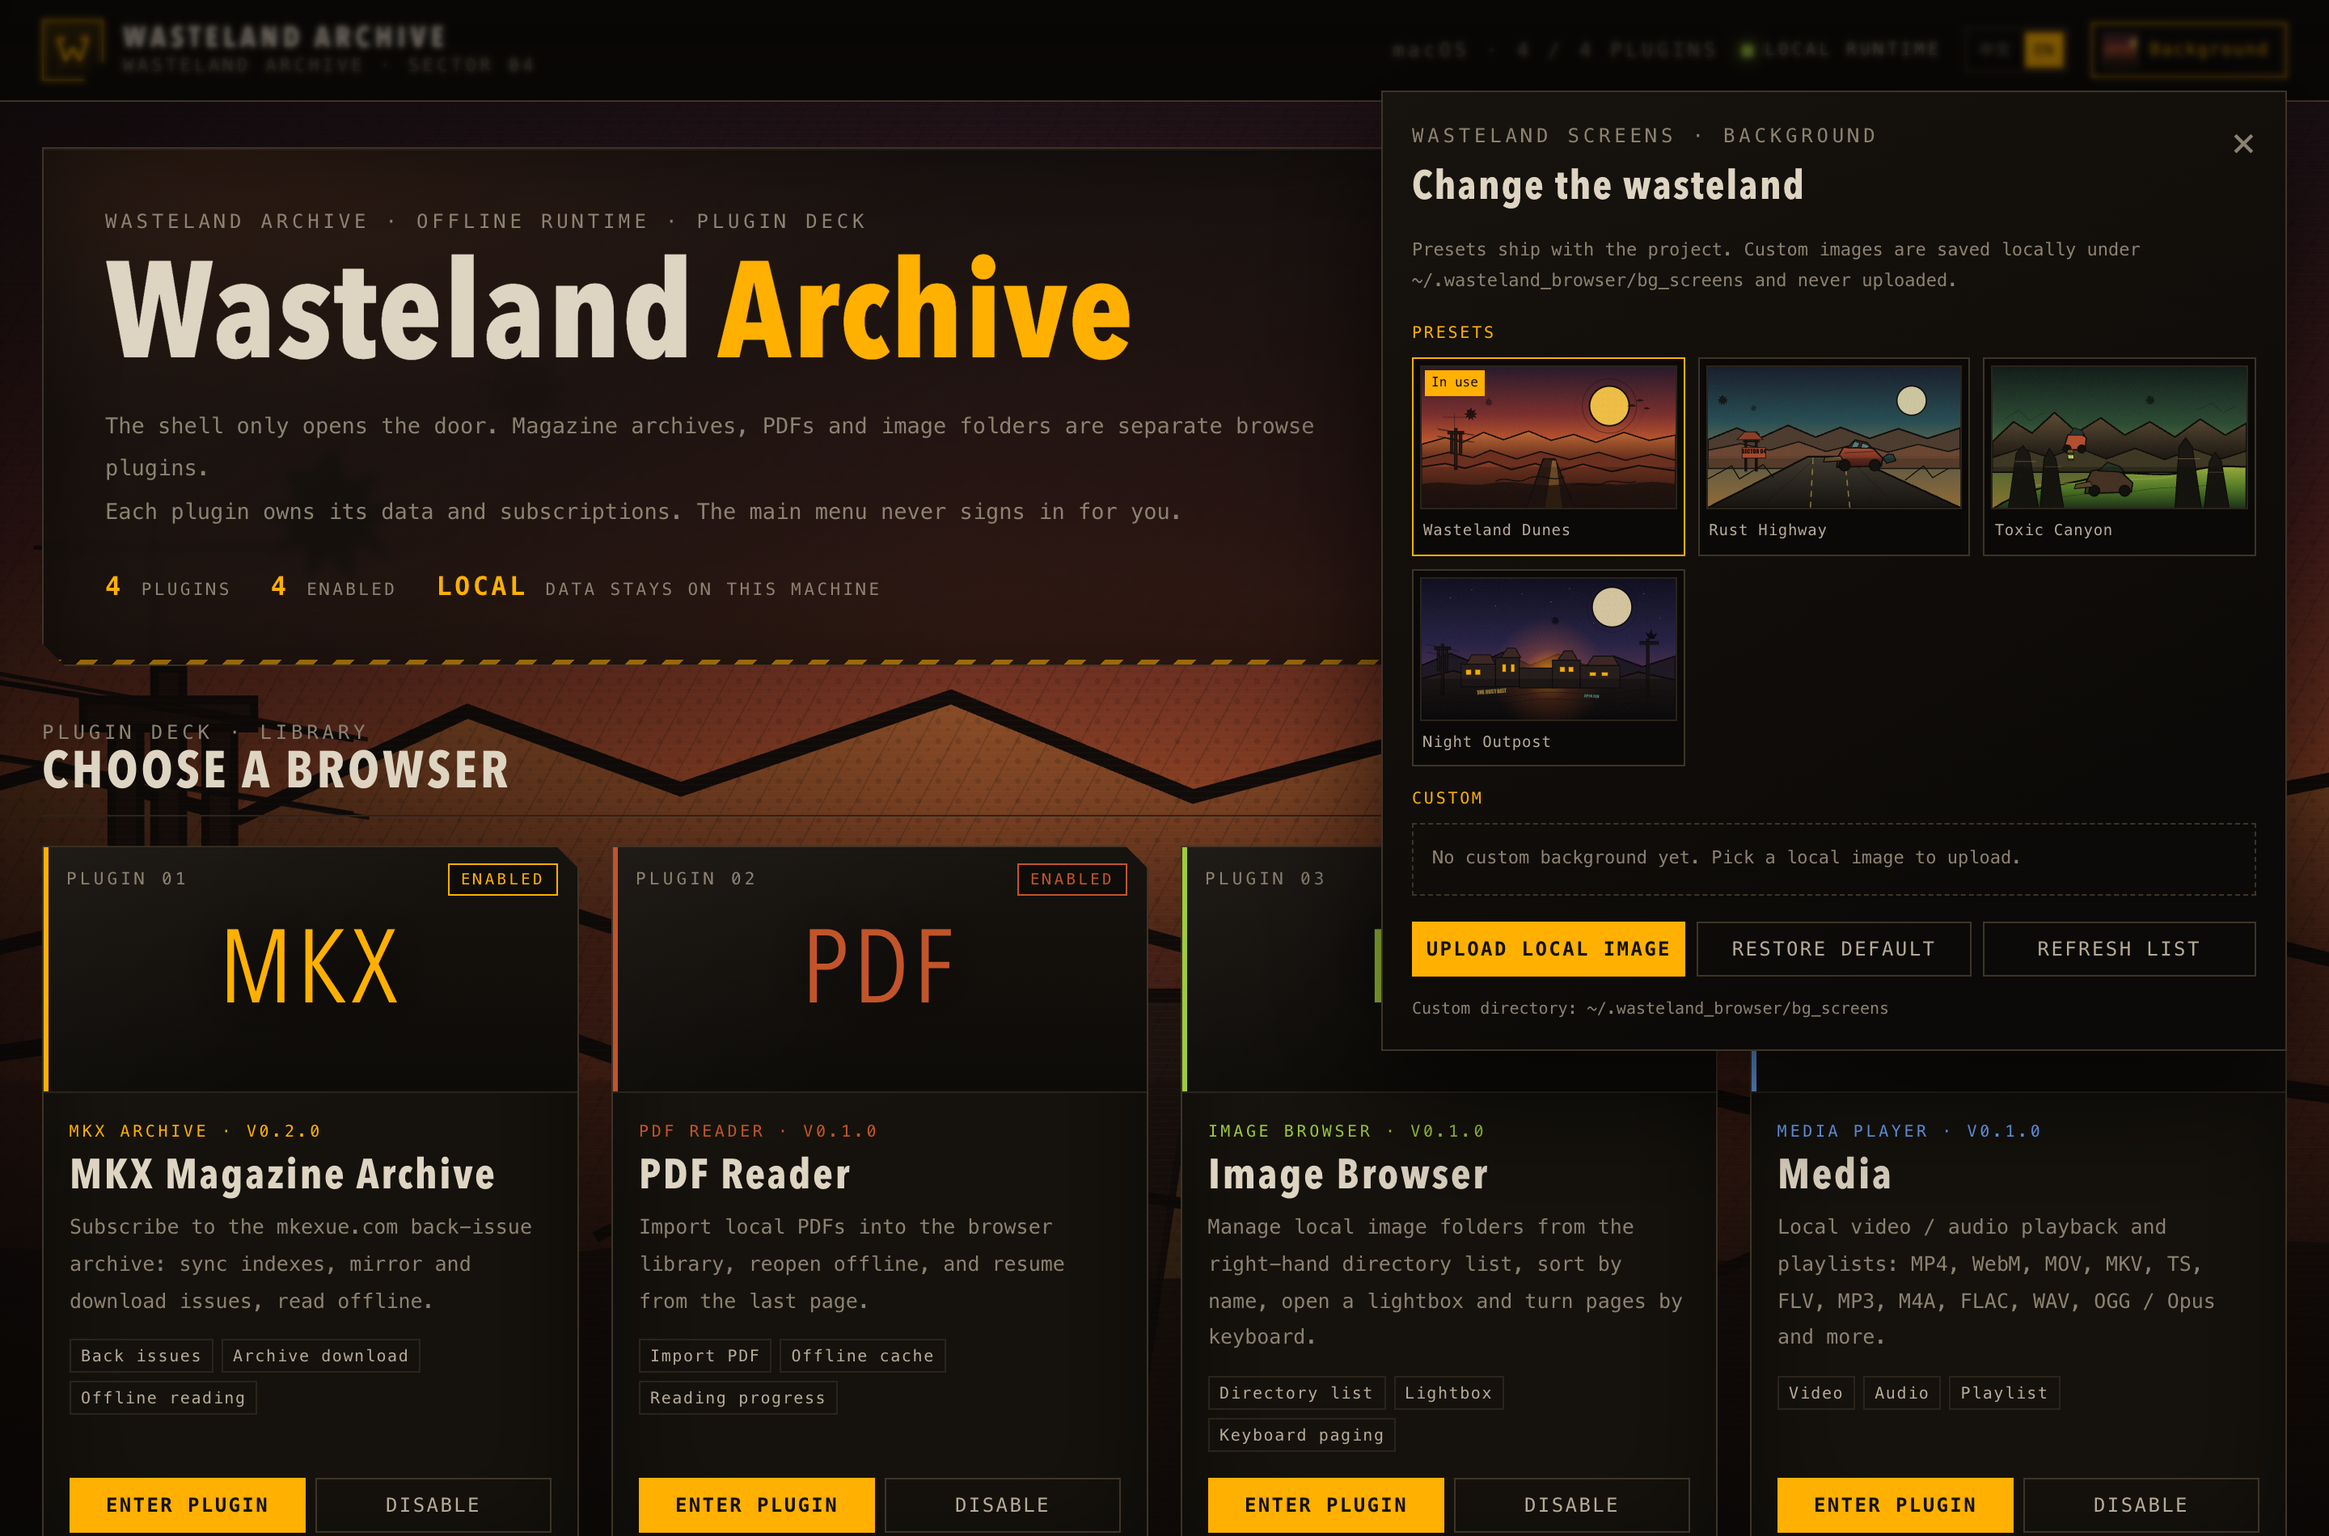
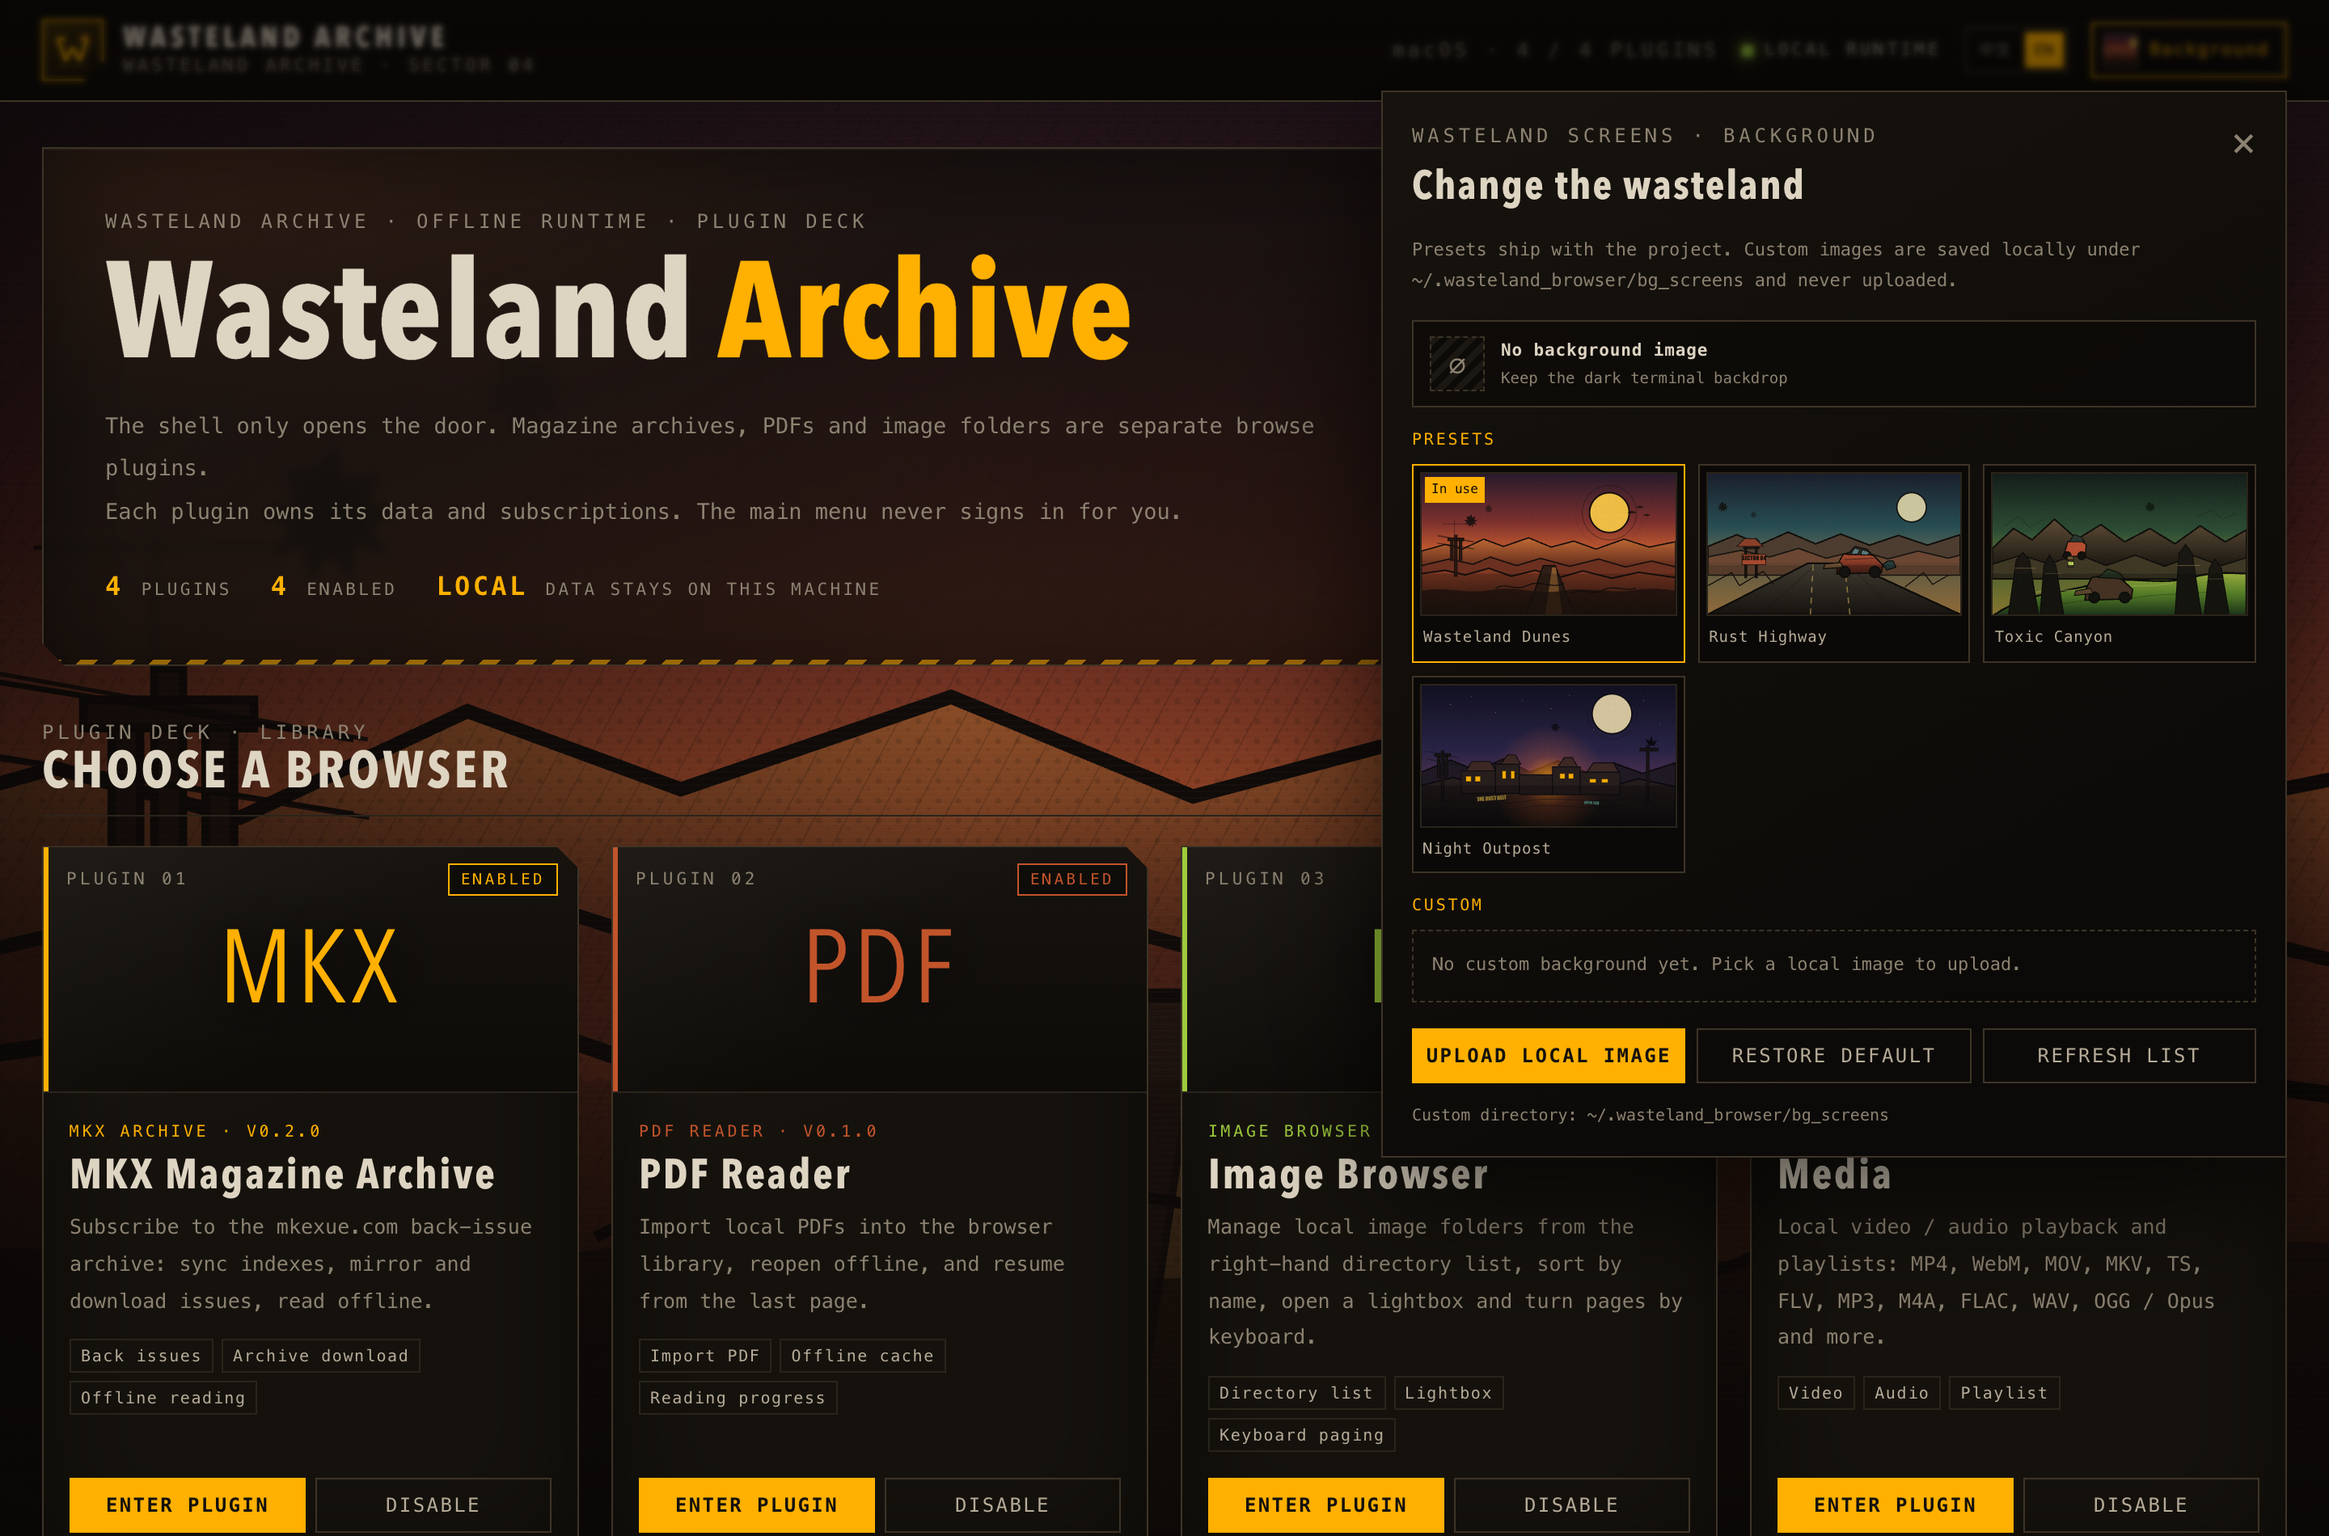
Add inner-page backgrounds, no-background option, and sample docs

diff --git a/src/components/BackgroundPicker.vue b/src/components/BackgroundPicker.vue
@@ -8,12 +8,14 @@ const {
   presets,
   custom,
   current,
+  isNone,
   customDir,
   loading,
   uploading,
   isDefault,
   loadBackgrounds,
   selectBackground,
+  selectNoBackground,
   resetBackground,
   uploadBackground,
   removeCustom,
@@ -76,7 +78,7 @@ async function remove(item) {
 <template>
   <div class="bg-picker">
     <button class="bg-trigger" :class="{ 'is-open': open }" @click="toggle">
-      <span class="bg-trigger__swatch" :style="{ backgroundImage: current ? 'url(' + current.url + ')' : 'none' }" />
+      <span class="bg-trigger__swatch" :class="{ 'is-none': isNone }" :style="{ backgroundImage: current ? 'url(' + current.url + ')' : 'none' }" />
       <span>{{ t("background.trigger") }}</span>
     </button>
 
@@ -92,6 +94,15 @@ async function remove(item) {
       </header>
 
       <p class="bg-panel__hint">{{ t("background.hint", { path: customDir }) }}</p>
+
+      <button class="bg-none-card" :class="{ 'is-active': isNone }" @click="selectNoBackground">
+        <span class="bg-none-card__swatch">∅</span>
+        <span class="bg-none-card__body">
+          <b>{{ t("background.none") }}</b>
+          <small>{{ t("background.noneHint") }}</small>
+        </span>
+        <span v-if="isNone" class="bg-card__badge">{{ t("background.inUse") }}</span>
+      </button>
 
       <div class="bg-group-label">{{ t("background.presets") }}</div>
       <div class="bg-grid">
@@ -163,6 +174,19 @@ async function remove(item) {
 }
 .bg-trigger:hover, .bg-trigger.is-open { border-color: var(--amber); color: var(--amber); }
 .bg-trigger__swatch { width: 22px; height: 22px; display: block; border: 1px solid var(--line); background-size: cover; background-position: center; }
+.bg-trigger__swatch.is-none {
+  position: relative;
+  background: repeating-linear-gradient(135deg, #1b1712 0 4px, #0d0b08 4px 8px);
+}
+.bg-trigger__swatch.is-none::after {
+  content: "∅";
+  position: absolute;
+  inset: 0;
+  display: grid;
+  place-items: center;
+  color: var(--muted);
+  font-size: 12px;
+}
 .bg-backdrop { position: fixed; inset: 0; z-index: 54; background: rgba(4, 3, 2, 0.48); backdrop-filter: blur(2px); }
 .bg-panel {
   position: absolute;
@@ -183,6 +207,34 @@ async function remove(item) {
 .bg-panel__hint { margin: 10px 0 14px; font-size: 11px; line-height: 1.8; color: var(--muted); }
 .bg-panel__hint code, .bg-panel__path code { color: var(--amber); font-family: var(--mono); font-size: 10px; }
 .bg-group-label { margin: 12px 0 8px; color: var(--amber); font-family: var(--mono); font-size: 10px; letter-spacing: 0.14em; }
+.bg-none-card {
+  width: 100%;
+  display: flex;
+  align-items: center;
+  gap: 10px;
+  padding: 9px 10px;
+  border: 1px solid var(--line);
+  background: rgba(11, 9, 7, 0.72);
+  color: var(--bone-dim);
+  cursor: pointer;
+  text-align: left;
+}
+.bg-none-card:hover, .bg-none-card.is-active { border-color: var(--amber); }
+.bg-none-card__swatch {
+  width: 34px;
+  height: 34px;
+  flex: 0 0 auto;
+  display: grid;
+  place-items: center;
+  border: 1px dashed var(--line);
+  color: var(--muted);
+  font-size: 18px;
+  background: repeating-linear-gradient(135deg, #1b1712 0 4px, #0d0b08 4px 8px);
+}
+.bg-none-card__body { display: flex; flex-direction: column; gap: 2px; }
+.bg-none-card__body b { font-family: var(--mono); font-size: 10.5px; letter-spacing: 0.04em; color: var(--bone); }
+.bg-none-card__body small { font-size: 9.5px; color: var(--muted); }
+.bg-none-card .bg-card__badge { position: static; margin-left: auto; }
 .bg-grid { display: grid; grid-template-columns: repeat(3, minmax(0, 1fr)); gap: 8px; }
 .bg-card { position: relative; display: flex; flex-direction: column; gap: 5px; padding: 4px; border: 1px solid var(--line); background: #0b0907; color: var(--bone-dim); cursor: pointer; text-align: left; }
 .bg-card:hover, .bg-card.is-active { border-color: var(--amber); }

diff --git a/src/stores/backgrounds.js b/src/stores/backgrounds.js
@@ -2,6 +2,7 @@ import { computed, ref } from "vue";
 
 const STORAGE_KEY = "wasteland.background.v1";
 const DEFAULT_ID = "preset:wasteland-dunes.svg";
+const NONE_ID = "none";
 const DEFAULT_URL = "/backgrounds/preset/wasteland-dunes.svg";
 const defaultItem = { id: DEFAULT_ID, kind: "preset", name: "废土沙丘", description: "落日、台地与荒原公路", url: DEFAULT_URL };
 
@@ -14,8 +15,12 @@ const uploading = ref(false);
 const loaded = ref(false);
 
 const all = computed(() => [...presets.value, ...custom.value]);
-const current = computed(() => all.value.find((item) => item.id === selectedId.value) || presets.value[0] || defaultItem);
-const backgroundStyle = computed(() => ({ backgroundImage: "url(" + JSON.stringify(current.value.url) + ")" }));
+const isNone = computed(() => selectedId.value === NONE_ID);
+const current = computed(() => {
+  if (isNone.value) return null;
+  return all.value.find((item) => item.id === selectedId.value) || presets.value[0] || defaultItem;
+});
+const backgroundStyle = computed(() => (isNone.value ? {} : { backgroundImage: "url(" + JSON.stringify(current.value.url) + ")" }));
 const isDefault = computed(() => !selectedId.value || selectedId.value === (presets.value[0] && presets.value[0].id) || selectedId.value === DEFAULT_ID);
 
 function persist() {
@@ -34,7 +39,7 @@ async function loadBackgrounds() {
     presets.value = Array.isArray(data.presets) ? data.presets : [];
     custom.value = Array.isArray(data.custom) ? data.custom : [];
     customDir.value = data.customDir || customDir.value;
-    if (!all.value.some((item) => item.id === selectedId.value)) {
+    if (!isNone.value && !all.value.some((item) => item.id === selectedId.value)) {
       selectedId.value = data.defaultId || (presets.value[0] && presets.value[0].id) || DEFAULT_ID;
       persist();
     }
@@ -49,6 +54,11 @@ async function loadBackgrounds() {
 function selectBackground(item) {
   if (!item) return;
   selectedId.value = item.id;
+  persist();
+}
+
+function selectNoBackground() {
+  selectedId.value = NONE_ID;
   persist();
 }
 
@@ -94,6 +104,7 @@ export function useBackgrounds() {
     custom,
     current,
     selectedId,
+    isNone,
     customDir,
     loading,
     uploading,
@@ -102,6 +113,7 @@ export function useBackgrounds() {
     isDefault,
     loadBackgrounds,
     selectBackground,
+    selectNoBackground,
     resetBackground,
     uploadBackground,
     removeCustom,

diff --git a/src/App.vue b/src/App.vue
@@ -20,7 +20,7 @@ function parseHash() {
 
 const route = ref(parseHash());
 const componentCache = new Map();
-const { backgroundStyle, loadBackgrounds } = useBackgrounds();
+const { backgroundStyle, isNone, loadBackgrounds } = useBackgrounds();
 
 function pluginName(plugin) {
   return plugin ? t(plugin.nameKey) : "";
@@ -80,11 +80,11 @@ onBeforeUnmount(() => {
 
 <template>
   <v-app>
-    <div class="shell" :class="{ 'shell--home': !activePlugin }">
-      <template v-if="!activePlugin">
-        <div class="home-bg" :style="backgroundStyle" />
-        <div class="home-bg__scrim" />
+    <div class="shell" :class="{ 'shell--home': !activePlugin, 'shell--plugin': Boolean(activePlugin) }">
+      <div class="app-bg" :class="{ 'is-none': isNone }" :style="backgroundStyle" />
+      <div v-if="!isNone" class="app-bg__scrim" />
 
+      <template v-if="!activePlugin">
         <header class="topbar topbar--shell">
           <button class="brand" @click="goHome">
             <div class="brand__mark brand__mark--svg"><WastelandMark /></div>

diff --git a/src/styles/wasteland.css b/src/styles/wasteland.css
@@ -127,6 +127,7 @@ body {
 
 /* ---------------- shell ---------------- */
 .shell {
+  position: relative;
   min-height: 100%;
   display: flex;
   flex-direction: column;
@@ -135,8 +136,8 @@ body {
     radial-gradient(70% 60% at 92% 8%, rgba(255, 176, 0, 0.06), transparent 62%),
     linear-gradient(#0a0907, #080706 60%, #0a0907);
 }
-.shell--home { position: relative; }
-.home-bg {
+.shell > :where(:not(.app-bg):not(.app-bg__scrim)) { position: relative; z-index: 1; }
+.app-bg {
   position: fixed;
   inset: 0;
   z-index: 0;
@@ -144,7 +145,13 @@ body {
   background-size: cover;
   background-repeat: no-repeat;
 }
-.home-bg__scrim {
+.app-bg.is-none { display: none; }
+.shell--plugin .app-bg__scrim {
+  background:
+    linear-gradient(180deg, rgba(8, 6, 5, 0.84) 0%, rgba(8, 6, 5, 0.64) 42%, rgba(8, 6, 5, 0.86) 100%),
+    repeating-linear-gradient(0deg, rgba(255, 255, 255, 0.02) 0 1px, transparent 1px 4px);
+}
+.app-bg__scrim {
   position: fixed;
   inset: 0;
   z-index: 0;

diff --git a/src/i18n/locales/en.js b/src/i18n/locales/en.js
@@ -47,6 +47,8 @@ export default {
   "plugins.media.tag2": "Audio",
   "plugins.media.tag3": "Playlist",
   "background.trigger": "Background",
+  "background.none": "No background image",
+  "background.noneHint": "Keep the dark terminal backdrop",
   "background.eyebrow": "WASTELAND SCREENS · BACKGROUND",
   "background.title": "Change the wasteland",
   "background.hint": "Presets ship with the project. Custom images are saved locally under {path} and never uploaded.",

diff --git a/src/i18n/locales/zh.js b/src/i18n/locales/zh.js
@@ -47,6 +47,8 @@ export default {
   "plugins.media.tag2": "音频",
   "plugins.media.tag3": "播放列表",
   "background.trigger": "背景",
+  "background.none": "无背景图片",
+  "background.noneHint": "只保留深色终端底色",
   "background.eyebrow": "WASTELAND SCREENS · 背景",
   "background.title": "换一张废土",
   "background.hint": "预设背景随项目提供；自定义图片保存到本机 {path}，不会上传外网。",

diff --git a/README.md b/README.md
@@ -32,6 +32,10 @@ Log in inside the MKX plugin only. The main menu never signs in for you. Passwor
 
 ![PDF reader](docs/pdf-viewer.png)
 
+Sample: [sample10.pdf](https://samplelib.com/pdf/sample10.pdf) from samplelib.com.
+
+![Sample PDF](docs/sample-pdf.png)
+
 ### Image browser
 
 ![Image browser](docs/image-browser.png)
@@ -47,6 +51,10 @@ Log in inside the MKX plugin only. The main menu never signs in for you. Passwor
 ![Media folder tree](docs/media-folder.png)
 ![Media player](docs/media-player.png)
 
+Sample: [sample-15s.mp4](https://samplelib.com/mp4/sample-15s.mp4) from samplelib.com.
+
+![Sample MP4](docs/sample-mp4.png)
+
 ### Particle visualizer
 
 The particle field reacts to the live low / mid / high frequency bands. **Full screen** hides the controls and surrounding UI so the visualization fills the display; an exit button and the visual selector stay available. File metadata is no longer drawn over the canvas — it stays in the **Now Playing** strip below the player.
@@ -58,7 +66,7 @@ Example: local audiobook chapter `book1_chapter01.mp3`.
 
 ## Wasteland backgrounds
 
-Choose from four bundled original backgrounds or upload your own:
+Backgrounds apply to the home page **and every plugin page**. Choose from four bundled original backgrounds, upload your own, or select **No background image** to keep only the dark terminal backdrop:
 
 - Wasteland Dunes
 - Rust Highway
@@ -72,6 +80,9 @@ Custom images are stored locally in:
 ```
 
 ![Background picker](docs/background-picker-en.png)
+
+![Background on an inner PDF page](docs/background-inner-pdf.png)
+![No background option](docs/background-none.png)
 
 ## Quick start — Web
 

diff --git a/langs/README.zh-CN.md b/langs/README.zh-CN.md
@@ -32,6 +32,10 @@
 
 ![PDF 阅读](../docs/pdf-viewer.png)
 
+示例：[sample10.pdf](https://samplelib.com/pdf/sample10.pdf)（来自 samplelib.com）。
+
+![示例 PDF](../docs/sample-pdf.png)
+
 ### 图片浏览
 
 ![图片浏览](../docs/image-browser.png)
@@ -47,6 +51,10 @@
 ![媒体目录树](../docs/media-folder.png)
 ![媒体播放](../docs/media-player.png)
 
+示例：[sample-15s.mp4](https://samplelib.com/mp4/sample-15s.mp4)（来自 samplelib.com）。
+
+![示例 MP4](../docs/sample-mp4.png)
+
 ### 粒子可视化
 
 粒子会随实时低 / 中 / 高频段爆开、流动。播放器提供 **全屏** 按钮，进入后隐藏控制条和周边界面，只保留退出按钮与可视化切换；文件信息不再压在画布上，而是放在播放器下方的 **NOW PLAYING** 区域。
@@ -58,7 +66,7 @@
 
 ## 废土背景
 
-内置预设：
+背景会同时应用到首页**和所有插件内页**。可选择内置预设、上传自定义图片，或选择 **无背景图片** 只保留深色终端底色：
 
 - 废土沙丘
 - 锈色公路
@@ -74,6 +82,9 @@
 点击右上角「背景」即可选择、上传、删除、恢复默认。
 
 ![背景选择器](../docs/background-picker-en.png)
+
+![插件内页背景](../docs/background-inner-pdf.png)
+![无背景图片](../docs/background-none.png)
 
 ## Web 快速开始
 
